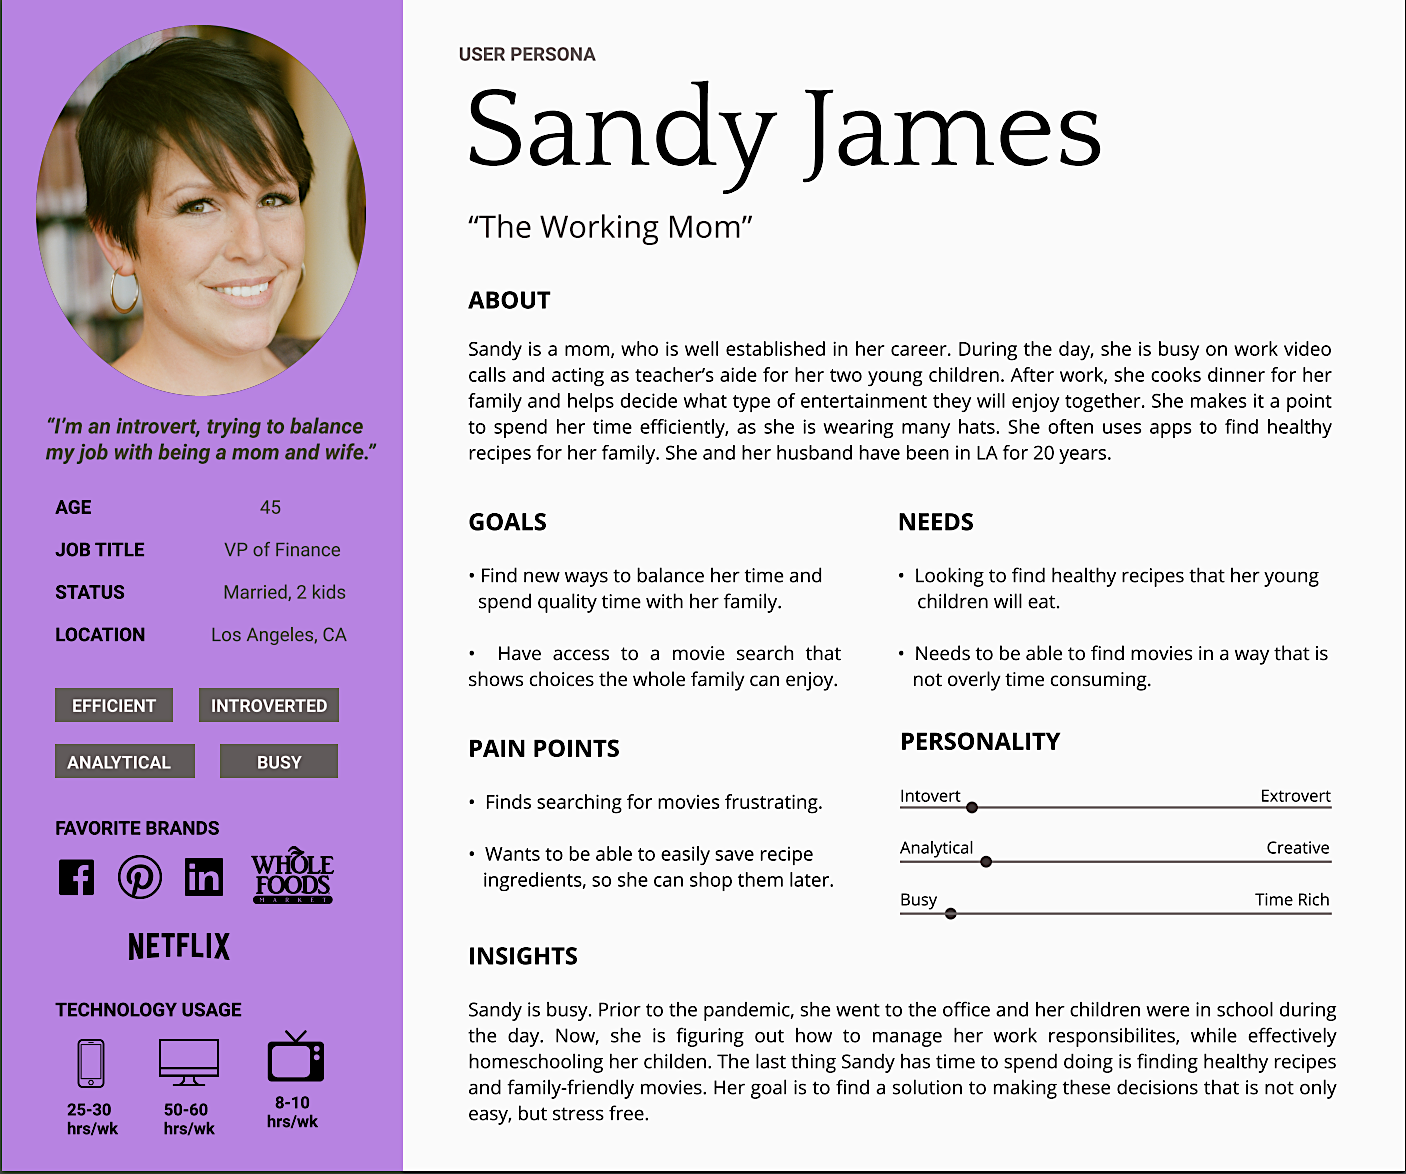
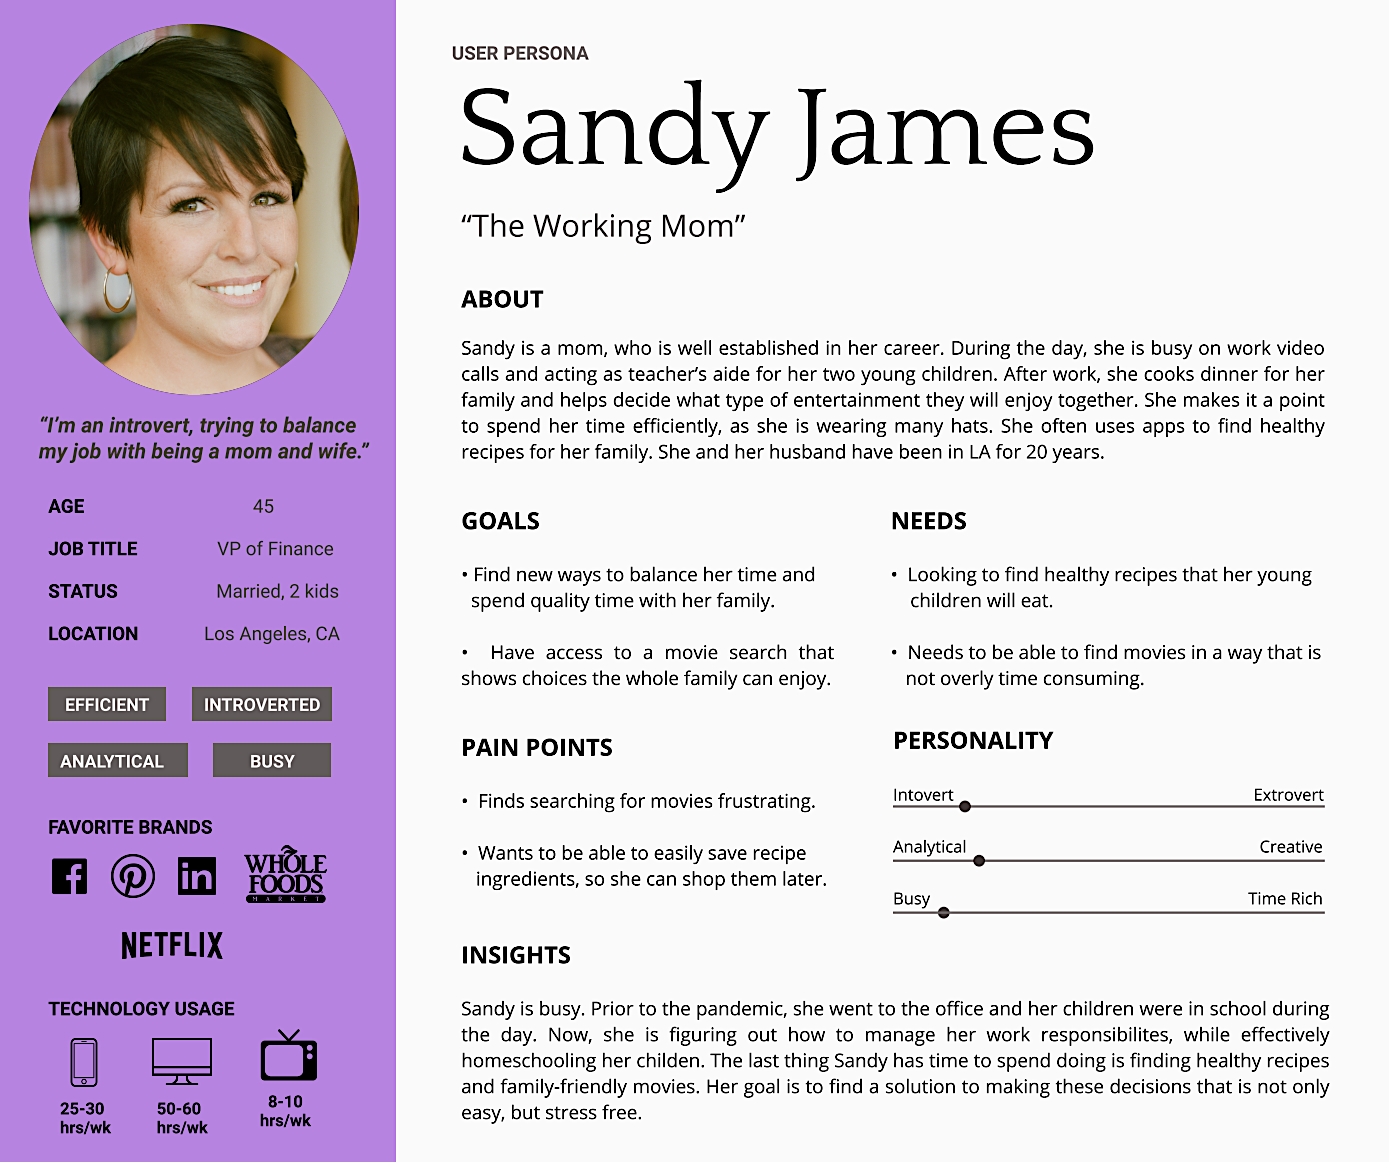
kickback case study responsive

diff --git a/assets/css/KBcs.css b/assets/css/KBcs.css
@@ -58,6 +58,11 @@ tml {
     margin-left: 8%;
 }
 
+.caseC {
+    display: block;
+    margin-left: 11%;
+}
+
 
 .persona {
     height: 700px;
@@ -75,6 +80,10 @@ tml {
 .user-story {
     height: 600px;
     width: 800px;
+}
+
+.user2{
+    margin-top: 3%;
 }
 
 .sketch{
@@ -132,7 +141,12 @@ tml {
     .about {
         margin-top: 1.5%;
         font-size: 12pt;
-    }   
+    }  
+    
+    .contents {
+        margin-top: 1.5%;
+        font-size: 12pt;
+    }  
 
     .end-search {
         font-size: 12pt; 
@@ -157,6 +171,12 @@ tml {
     }
 
     .about {
+        margin-top: 2.5%;
+        margin-bottom: 3%;
+        font-size: 15pt;
+    }
+
+    .contents {
         margin-top: 2.5%;
         margin-bottom: 3%;
         font-size: 15pt;
@@ -191,7 +211,20 @@ tml {
         font-size: 15pt;
     }
 
+    .contents {
+        font-size: 15pt;
+    }
 
+    .persona {
+        height: 500px;
+        width: 700px;
+    }
+
+    .decision {
+        height: 400px;
+        width: 700px;
+    }
+    
     .end-search {
         font-size: 12pt; 
     }   
@@ -215,6 +248,33 @@ tml {
     .about {
         font-size: 11pt;
         margin-top: 3%;
+    }
+
+    .contents {
+        font-size: 11pt;
+        margin-top: 3%;
+    }
+
+    .persona {
+        height: 300px;
+        width: 400px;
+    }
+
+    .user-story {
+        height: 300px;
+    }
+
+    .decision {
+        height: 200px;
+        width: 800px;
+    }
+
+    .lowfi {
+        height: 300px;
+    }
+
+    .MVP {  
+        height: 300px;  
     }
 }
 
@@ -240,6 +300,30 @@ tml {
         margin-right: 16%;
         margin-top: 4%;
         font-size: 11pt;
+    }
+
+    .contents {
+        margin-right: 16%;
+        margin-top: 4%;
+        font-size: 11pt;
+    }
+
+    .user-story {
+        height: 300px;
+    }
+
+    .decision {
+        height: 200px;
+        width: 800px;
+    }
+
+    .lowfi {
+        height: 300px;
+    }
+
+
+    .MVP {  
+        height: 300px;  
     }
 
     .end-search {

diff --git a/KBcs.html b/KBcs.html
@@ -114,8 +114,9 @@
                      <p>After the interviews were conducted, I created two user personas to visually represent the information we gathered. These tangible representations reminded us of our user's needs and goals. </p><br>
                      <div>
                         <img class="persona img-fluid  mx-auto d-block" src="./assets/images/user1Kickback.png" alt="user persona" >
-                        <img class="persona img-fluid  mx-auto d-block" src="./assets/images/user2Kickback.png" alt="user persona" >
                      </div>
+                     <div class="user2"> <img class="persona img-fluid  mx-auto d-block" src="./assets/images/user2Kickback.png" alt="user persona" >
+                    </div>
                  </div> <br>
                  <div class="about ux">
                      <strong class="research" id="problem">Problem Statement</strong><br>
